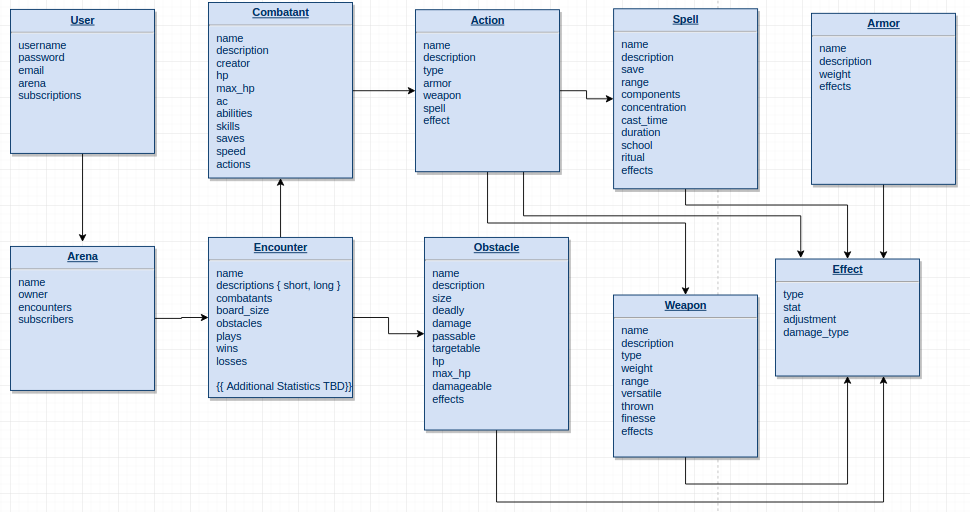
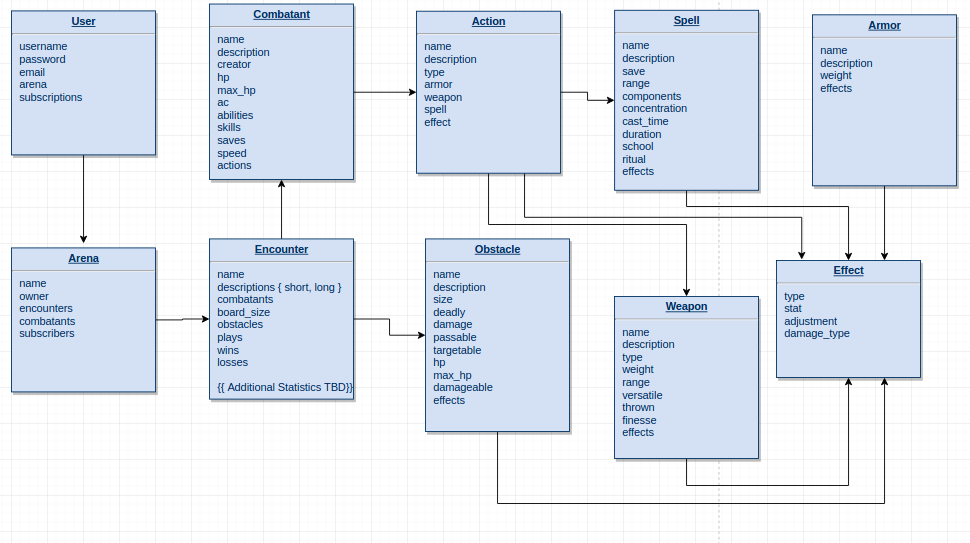
Test

diff --git a/DMBD_Final_Design_Document.tex b/DMBD_Final_Design_Document.tex
@@ -732,7 +732,7 @@ Note: The { "Collection Name" } notation represents an Object.id that correlates
 	\label{fig: Arena Schema }
 \end{figure}
 
-\paragraph{}This schema will hold basic Arena information: an Arena name (name), a reference to Arena's creator: (owner), a list of encounters that are contained in the arena (encounters), and a list of references to users that are subscribed to the (subscribers). The Arena acts as a hub, organizer and access or for every user and their encounters. Arena statistics are not directly maintained in the Area object itself but are compiled from the list of encounters that is contained in the encounters field. This allows the statistics as up to date as possible without constantly updating both area statistic and the encounter statistics when an encounter goes through a stat change.
+\paragraph{}This schema will hold basic Arena information: an Arena name (name), a reference to Arena's creator: (owner), a list of encounters that are contained in the arena (encounters), a list of the users creations that they have made including monsters and playable characters (combatants), and a list of references to users that are subscribed to the (subscribers). The Arena acts as a hub, organizer and access or for every user and their encounters. Arena statistics are not directly maintained in the Area object itself but are compiled from the list of encounters that is contained in the encounters field. This allows the statistics as up to date as possible without constantly updating both area statistic and the encounter statistics when an encounter goes through a stat change.
 
 \subsection{Encounter Schema}
 \begin{figure}[H]
